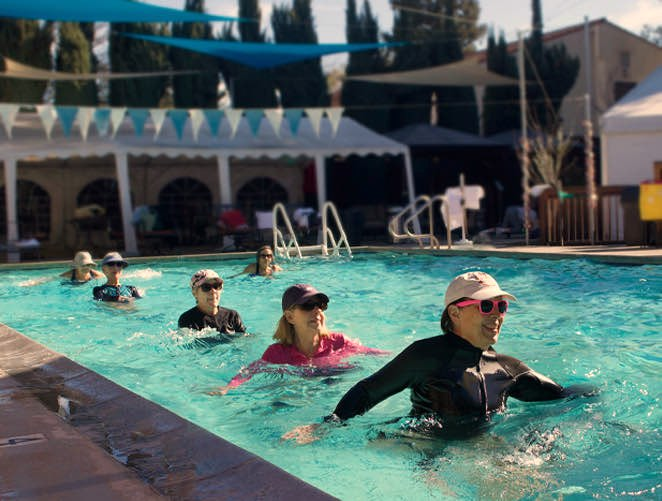
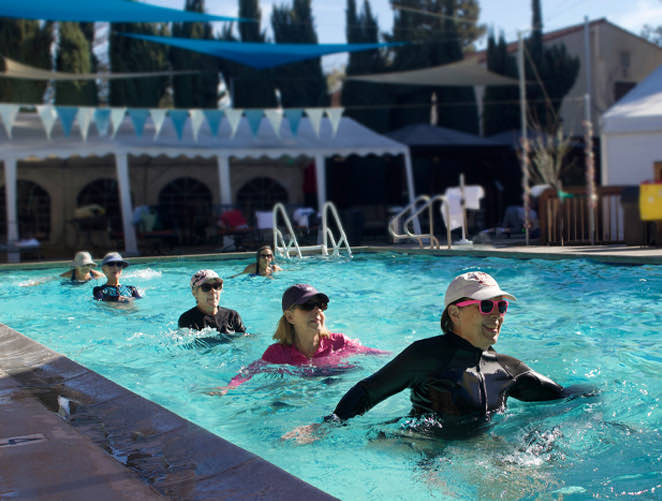
Restore the pool photo's cyan water; exclude it from colour matching
The batch colour-match in f08a5d4 treated this photo's cyan as a cast to
neutralise, but here the cyan is the subject. It pushed blue below green
(B112 G102 R71 -> B98 G101 R81), and cyan needs B > G > R, so the water
went teal-grey. Restored from 4d35055, the commit before that pass.

This surfaced on the home page rather than Outdoor Fitness because the file
is in both strips (build.py:11 and :50) and the batch edited it in place,
so the home page inherited a correction it was never part of.

COLOR_MATCH_EXCLUDE records the reason so a future pass skips it.

diff --git a/build.py b/build.py
@@ -12,6 +12,12 @@ _CURATED_OUTDOOR_STRIP = [
 ]
 
 
+# Photos to leave out of any colour-match pass. The pool shot's cyan is the
+# subject, not a cast, and matching it to the warm turf reference pulled the blue
+# out of the water — which also reached the homepage strip, since both strips
+# use this file.
+COLOR_MATCH_EXCLUDE = {"WC_pool_class_662x501_v1.jpg"}
+
 # Per-photo crops for strip images whose subject the centred crop clips.
 STRIP_FOCAL = {
     "ropes_WC_photo_strip.jpg": "50% 20%",   # 900x885 into a wide tile — centred cut her head
